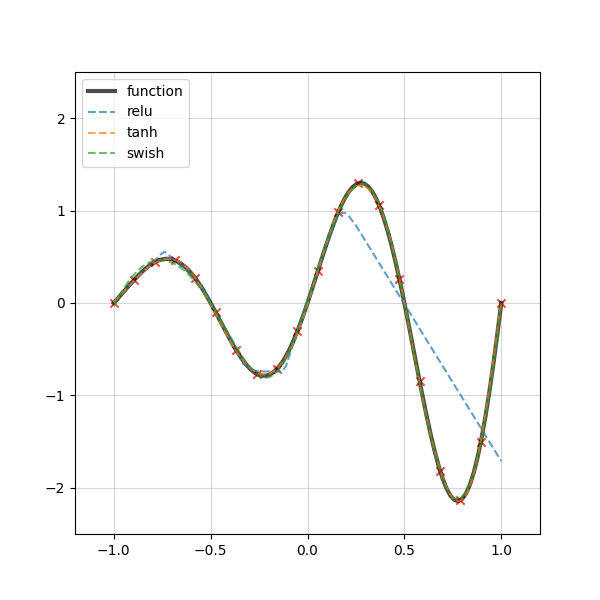
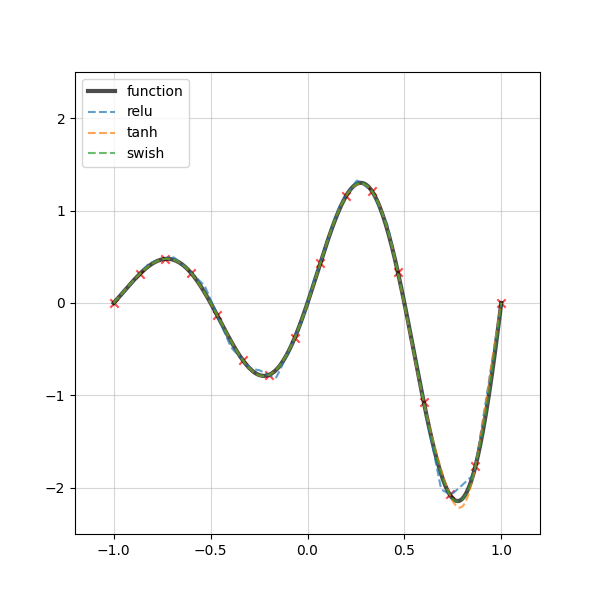
fix params

diff --git a/00_tf2/main.py b/00_tf2/main.py
@@ -27,7 +27,7 @@ def main():
     f_in   = 1
     f_out  = 1
     f_hid  = 2 ** 4
-    depth  = 4
+    depth  = 3
     b_init = "zeros"
     lr     = 5e-4
     opt    = "Adam"
@@ -71,6 +71,7 @@ def main():
         model_relu.train(n_epc, n_btc, c_tol)
     # model_relu.save("./saved_model/model_relu")
     y_relu = model_relu.infer(x_infer)
+    del model_relu
 
     # tanh model
     w_init = "Glorot"
@@ -85,6 +86,7 @@ def main():
     with tf.device("/device:GPU:0"):
         model_tanh.train(n_epc, n_btc, c_tol)
     y_tanh = model_tanh.infer(x_infer)
+    del model_tanh
 
     # swish model
     w_init = "He"
@@ -99,6 +101,7 @@ def main():
     with tf.device("/device:GPU:0"):
         model_swish.train(n_epc, n_btc, c_tol)
     y_swish = model_swish.infer(x_infer)
+    del model_swish
 
     # compare
     if p_id == 0:
